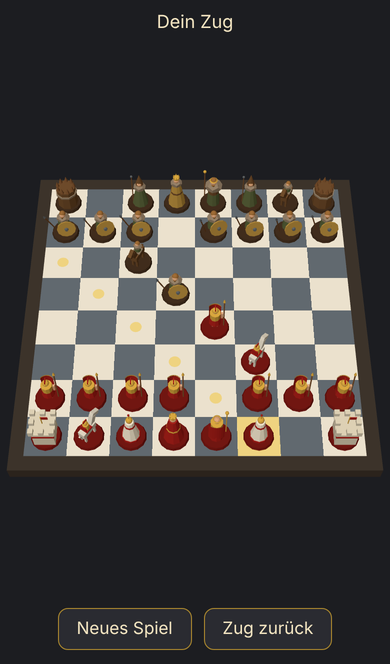
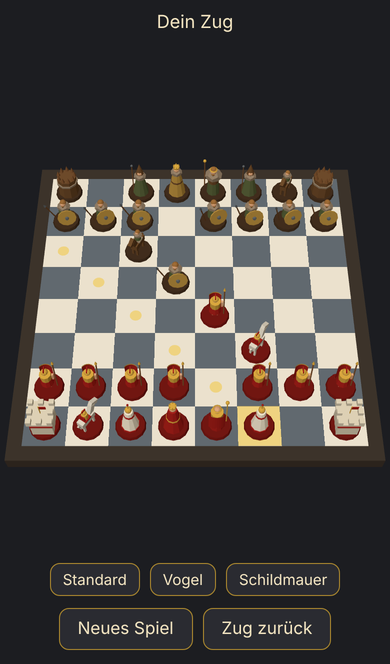
Add orbit camera with three views; tap selects, swipe rotates

diff --git a/src/board.ts b/src/board.ts
@@ -3,6 +3,7 @@
 // Gezeichnet wird nur, wenn sich etwas ändert (render), nicht in einer Dauerschleife.
 
 import * as THREE from 'three';
+import { OrbitControls } from 'three/addons/controls/OrbitControls.js';
 import { colorOf, fileOf, rankOf, type Color, type Piece, type Position } from './rules.ts';
 import { bishop } from './pieces/bishop.ts';
 import { king } from './pieces/king.ts';
@@ -22,9 +23,31 @@ const boardTop = makeBoardTop();
 const pieces = new THREE.Group(); // Figuren der aktuellen Stellung
 const marks = new THREE.Group(); // Auswahl und legale Ziele
 
+// Kamera drehen und zoomen. Ein Finger dreht, zwei Finger zoomen (so ist OrbitControls voreingestellt).
+// Verschieben ist aus, darum bleibt das Ziel die Brettmitte.
+const controls = new OrbitControls(camera, renderer.domElement);
+controls.enablePan = false;
+controls.maxPolarAngle = 1.35; // nicht tiefer als gut 10° über dem Brett
+controls.addEventListener('change', render);
+
+// Abstand, bei dem das ganze Brett ins Bild passt. Hängt vom Bildschirm ab, siehe resize.
+let fit = 1;
+
+// Die drei Ansichten. polar: Winkel von senkrecht oben; azimuth: Drehung ums Brett, 0 = hinter Rom;
+// distance: Abstand als Vielfaches von `fit`.
+const VIEWS = {
+  standard: { polar: 0.56, azimuth: 0, distance: 1 }, // schräg hinter Rom
+  bird: { polar: 0.001, azimuth: 0, distance: 1 }, // von oben
+  shieldWall: { polar: 1.2, azimuth: 2.0, distance: 1.1 }, // tief und seitlich, Schilde schräg von vorne
+};
+export type View = keyof typeof VIEWS;
+
 export function init(container: HTMLElement) {
   renderer.setPixelRatio(Math.min(window.devicePixelRatio, 2)); // 3x kostet auf dem iPhone viel, bringt wenig
   container.append(renderer.domElement);
+  const start = VIEWS.standard;
+  camera.position.setFromSphericalCoords(fit, start.polar, start.azimuth); // resize skaliert auf den richtigen Abstand
+  controls.update();
 
   scene.background = new THREE.Color('#1c1d21');
   scene.add(new THREE.HemisphereLight('#fff6e8', '#4a4038', 1.6));
@@ -67,6 +90,40 @@ export function select(from: number | null, targets: number[]) {
   render();
 }
 
+// Ruft `handler` mit dem angetippten Feld auf. Entschieden wird beim Loslassen:
+// Hat sich der Finger kaum bewegt, war es ein Tipp, sonst hat er die Kamera gedreht.
+// Ein zweiter Finger (Zoomen) macht aus der Berührung nie einen Tipp.
+export function onTap(handler: (sq: number | null) => void) {
+  let pressedAt: { x: number; y: number } | null = null;
+  renderer.domElement.addEventListener('pointerdown', (e) => {
+    pressedAt = e.isPrimary ? { x: e.clientX, y: e.clientY } : null;
+  });
+  renderer.domElement.addEventListener('pointerup', (e) => {
+    if (pressedAt && Math.hypot(e.clientX - pressedAt.x, e.clientY - pressedAt.y) < 10) {
+      handler(squareAt(e.clientX, e.clientY));
+    }
+    pressedAt = null;
+  });
+}
+
+// Fährt die Kamera sanft in eine der drei Ansichten. Während der Fahrt ist Drehen aus.
+export async function showView(name: View) {
+  if (!controls.enabled) return; // es läuft schon eine Fahrt
+  const from = new THREE.Spherical().setFromVector3(camera.position);
+  const to = VIEWS[name];
+  const turn = Math.atan2(Math.sin(to.azimuth - from.theta), Math.cos(to.azimuth - from.theta)); // kürzerer Weg
+  controls.enabled = false;
+  await tween(0.8, (t) => {
+    const e = smooth(t);
+    const distance = THREE.MathUtils.lerp(from.radius, to.distance * fit, e);
+    const polar = THREE.MathUtils.lerp(from.phi, to.polar, e);
+    camera.position.setFromSphericalCoords(distance, polar, from.theta + turn * e);
+    camera.lookAt(controls.target);
+  });
+  controls.enabled = true;
+  controls.update();
+}
+
 // Welches Feld liegt unter dem Finger oder Mauszeiger? null, wenn keins.
 export function squareAt(clientX: number, clientY: number): number | null {
   const rect = renderer.domElement.getBoundingClientRect();
@@ -90,18 +147,44 @@ export function render() {
   renderer.render(scene, camera);
 }
 
-// Feste, leicht schräge Sicht von der Seite Roms. Der Abstand passt sich dem Bildschirm an,
-// damit das Brett im Hochformat in die Breite und im Querformat in die Höhe passt.
+// Ruft step(t) bei jedem Bild auf und zeichnet; t läuft in `seconds` Sekunden von 0 bis 1.
+// Für Figuren (animate.ts) und Kamerafahrten.
+export function tween(seconds: number, step: (t: number) => void): Promise<void> {
+  return new Promise((resolve) => {
+    let start: number | undefined;
+    function frame(now: number) {
+      start ??= now; // Zeit des ersten Bildes
+      const t = Math.min((now - start) / (seconds * 1000), 1);
+      step(t);
+      render();
+      if (t < 1) requestAnimationFrame(frame);
+      else resolve();
+    }
+    requestAnimationFrame(frame);
+  });
+}
+
+// Langsam anfahren, langsam abbremsen.
+export function smooth(t: number): number {
+  return t * t * (3 - 2 * t);
+}
+
+// Passt Bildgröße und Kamera an den Bildschirm an. `fit` ist der Abstand, bei dem das Brett
+// im Hochformat in die Breite und im Querformat in die Höhe passt. Blickrichtung und Zoom
+// bleiben erhalten, nur im Verhältnis zum neuen `fit`. Die Zoomgrenzen hängen ebenfalls an `fit`.
 function resize(container: HTMLElement) {
   const width = container.clientWidth;
   const height = container.clientHeight;
   renderer.setSize(width, height);
   camera.aspect = width / height;
-  const halfHeight = Math.tan(THREE.MathUtils.degToRad(camera.fov / 2));
-  const distance = Math.max(5.0 / (halfHeight * camera.aspect), 4.6 / halfHeight);
-  camera.position.set(0, 1.6, 1).normalize().multiplyScalar(distance);
-  camera.lookAt(0, 0, 0.3);
   camera.updateProjectionMatrix();
+  const halfHeight = Math.tan(THREE.MathUtils.degToRad(camera.fov / 2));
+  const previousFit = fit;
+  fit = Math.max(5.0 / (halfHeight * camera.aspect), 4.6 / halfHeight);
+  controls.minDistance = 0.5 * fit;
+  controls.maxDistance = 1.3 * fit;
+  camera.position.multiplyScalar(fit / previousFit); // Ziel ist der Ursprung, also skaliert das den Abstand
+  controls.update();
   render();
 }
 

diff --git a/src/animate.ts b/src/animate.ts
@@ -32,8 +32,8 @@ export async function animateMove(pos: Position, move: Move) {
 
 function slide(figure: THREE.Object3D, to: THREE.Vector3, hop = 0): Promise<void> {
   const from = figure.position.clone();
-  return tween(0.25 + 0.08 * from.distanceTo(to), (t) => {
-    const e = smooth(t);
+  return board.tween(0.25 + 0.08 * from.distanceTo(to), (t) => {
+    const e = board.smooth(t);
     figure.position.lerpVectors(from, to, e);
     figure.position.y = hop * Math.sin(Math.PI * e);
   });
@@ -44,7 +44,7 @@ function lunge(figure: THREE.Object3D, direction: THREE.Vector3): Promise<void> 
   const start = figure.position.clone();
   const rest = figure.quaternion.clone();
   const axis = UP.clone().cross(direction); // kippt die Oberseite in Richtung `direction`
-  return tween(0.3, (t) => {
+  return board.tween(0.3, (t) => {
     const k = Math.sin(Math.PI * t); // 0 → 1 → 0
     figure.position.copy(start).addScaledVector(direction, 0.25 * k);
     figure.quaternion.setFromAxisAngle(axis, 0.35 * k).multiply(rest);
@@ -57,7 +57,7 @@ function topple(figure: THREE.Object3D, direction: THREE.Vector3): Promise<void>
   const rest = figure.quaternion.clone();
   const axis = UP.clone().cross(direction);
   const edge = 0.35; // Abstand von der Mitte bis zur Kippkante
-  return tween(0.4, (t) => {
+  return board.tween(0.4, (t) => {
     const angle = (Math.PI / 2) * t * t;
     figure.quaternion.setFromAxisAngle(axis, angle).multiply(rest);
     figure.position.copy(start).addScaledVector(direction, edge * (1 - Math.cos(angle)));
@@ -68,28 +68,7 @@ function topple(figure: THREE.Object3D, direction: THREE.Vector3): Promise<void>
 // Versinkt im Brett und verschwindet.
 function sink(figure: THREE.Object3D): Promise<void> {
   const startY = figure.position.y;
-  return tween(0.35, (t) => {
+  return board.tween(0.35, (t) => {
     figure.position.y = startY - 0.9 * t;
   });
-}
-
-// Ruft step(t) bei jedem Bild auf, t läuft in `seconds` Sekunden von 0 bis 1.
-function tween(seconds: number, step: (t: number) => void): Promise<void> {
-  return new Promise((resolve) => {
-    let start: number | undefined;
-    function frame(now: number) {
-      start ??= now; // Zeit des ersten Bildes
-      const t = Math.min((now - start) / (seconds * 1000), 1);
-      step(t);
-      board.render();
-      if (t < 1) requestAnimationFrame(frame);
-      else resolve();
-    }
-    requestAnimationFrame(frame);
-  });
-}
-
-// Langsam anfahren, langsam abbremsen.
-function smooth(t: number): number {
-  return t * t * (3 - 2 * t);
 }

diff --git a/index.html b/index.html
@@ -27,13 +27,20 @@
       #board {
         flex: 1;
         min-height: 0;
-        touch-action: none; /* kein Scrollen oder Zoomen beim Tippen aufs Brett */
+        touch-action: none; /* kein Scrollen oder Zoomen der Seite beim Wischen übers Brett */
       }
       nav {
         display: flex;
-        gap: 12px;
+        gap: 10px;
         justify-content: center;
-        padding: 8px 16px calc(env(safe-area-inset-bottom) + 14px);
+        padding: 6px 16px;
+      }
+      #actions {
+        padding-bottom: calc(env(safe-area-inset-bottom) + 14px);
+      }
+      #views button {
+        font-size: 15px;
+        padding: 6px 12px;
       }
       button {
         font: inherit;
@@ -49,7 +56,12 @@
   <body>
     <p id="status"></p>
     <div id="board"></div>
-    <nav>
+    <nav id="views">
+      <button id="view-standard">Standard</button>
+      <button id="view-bird">Vogel</button>
+      <button id="view-shield-wall">Schildmauer</button>
+    </nav>
+    <nav id="actions">
       <button id="new-game">Neues Spiel</button>
       <button id="undo">Zug zurück</button>
     </nav>

diff --git a/src/main.ts b/src/main.ts
@@ -18,9 +18,12 @@ let selected: number | null = null; // Feld der gewählten Figur
 let busy = false; // ein Zug läuft gerade (Animation oder Computer)
 
 board.init(boardElement);
-boardElement.addEventListener('pointerdown', (e) => tap(board.squareAt(e.clientX, e.clientY)));
+board.onTap(tap);
 document.querySelector('#new-game')!.addEventListener('click', newGame);
 document.querySelector('#undo')!.addEventListener('click', undo);
+document.querySelector('#view-standard')!.addEventListener('click', () => board.showView('standard'));
+document.querySelector('#view-bird')!.addEventListener('click', () => board.showView('bird'));
+document.querySelector('#view-shield-wall')!.addEventListener('click', () => board.showView('shieldWall'));
 newGame();
 
 function current(): Position {

diff --git a/README.md b/README.md
@@ -16,7 +16,9 @@ npm run dev
 - Tippe eine römische Figur an. Felder, auf die sie darf, bekommen einen Punkt, Figuren, die sie schlagen kann, einen Ring.
 - Tippe ein markiertes Feld: Die Figur gleitet hin, ein Springer springt im Bogen.
 - Dann überlegen die Germanen kurz und ziehen. Beim Schlagen stößt der Angreifer zu, das Opfer kippt um und versinkt im Brett.
-- Oben steht der Stand: dein Zug, Schach, Schachmatt oder Patt. Unten: **Neues Spiel** und **Zug zurück** (nimmt deinen Zug samt Antwort zurück).
+- Mit einem Finger wischen dreht die Kamera ums Brett, zwei Finger zoomen (am Rechner: ziehen und Mausrad). Ein kurzer Tipp wählt weiterhin nur Figuren aus.
+- **Standard**, **Vogel** und **Schildmauer** fahren die Kamera sanft in drei feste Ansichten: schräg hinter Rom, von oben, tief von der Seite mit den Schilden schräg von vorne.
+- Oben steht der Stand: dein Zug, Schach, Schachmatt oder Patt. Ganz unten: **Neues Spiel** und **Zug zurück** (nimmt deinen Zug samt Antwort zurück).
 
 ```bash
 npm test
@@ -33,7 +35,7 @@ src/
 ├── rules.ts          Zentrum: Schachregeln. Stellung rein, legale Züge, neue Stellung, Schach/Matt/Patt raus
 ├── main.ts           Spielablauf: Tipp → Zug → Animation → Zug des Computers; Leiste und Status
 ├── ai.ts             Computergegner: Minimax mit Alpha-Beta, 3 Halbzüge, danach Schlagfolgen zu Ende gerechnet
-├── board.ts          three.js: Kamera, Licht, Brett, Figuren aufstellen, Markierungen, welches Feld getippt wurde
+├── board.ts          three.js: Kamera (drehen, zoomen, drei Ansichten), Licht, Brett, Figuren, Markierungen, Tipp oder Wischen
 ├── animate.ts        Gleiten, Springerbogen, Angriff, Umkippen, Versinken
 ├── pieces/
 │   ├── parts.ts      Farben, Grundformen, Sockel und die Abmachung, die jede Figur einhält
@@ -54,7 +56,7 @@ screenshot.png        das Bild oben
 Ein Zug läuft so durch die Dateien:
 
 ```text
-Tipp → board.squareAt → main.tap → rules.legalMoves
+Tipp → board.onTap → main.tap → rules.legalMoves
      → animate.animateMove → rules.makeMove → board.show
      → ai.bestMove → derselbe Weg für den Zug des Computers
 ```
@@ -100,11 +102,13 @@ Ausprobiert mit dem eigenen Bauern, als `.glb` exportiert: Er lädt so im Entwic
 - **Regeln selbst geschrieben** statt chess.js (DECISIONS.md): keine Abhängigkeit, und die Suche des Computers braucht schnelle Züge. Perft bestätigt die Regeln.
 - **Tests mit Node** (`node --test`) statt Vitest: Node 22 führt TypeScript direkt aus, eine Abhängigkeit weniger.
 - **Gezeichnet wird nur bei Änderungen**, nicht 60-mal pro Sekunde. Schach steht meistens still; das schont Akku und Wärme.
+- **Tippen oder Wischen** entscheidet sich beim Loslassen: weniger als 10 Pixel Bewegung ist ein Tipp, sonst hat die Kamera gedreht. Ein zweiter Finger macht nie einen Tipp daraus.
+- **Kamera ohne Nachlauf** (OrbitControls ohne Dämpfung): Sie bewegt sich nur, solange der Finger zieht. So braucht es keine Dauerschleife, gezeichnet wird weiter nur bei Änderungen.
 - **Der Computer rechnet im Hauptthread**, aber erst, wenn keine Animation läuft. Gemessen auf dem Server: Median 51 ms, langsamster Zug 0,5 s in einer Partie über 120 Halbzüge.
 
 ## Offene Fragen
 
-1. **Schildmauer: Maße oder Mauer?** Das Scutum ist jetzt halb so breit wie hoch (0,30 × 0,58 Feld). Bei 1 Feld Abstand bleibt zwischen zwei Schilden etwa 0,7 Feld Lücke, eine geschlossene Wand entsteht so nicht. So breit wie der Sockel (0,66) bliebe ein Drittel Feld Lücke, der Schild wäre dann aber fast so breit wie hoch. Dazu kommt: Die Kamera steht hinter Rom, man sieht die Schilde von hinten. Sollen die Römer zur Kamera schauen?
+1. **Schildmauer: Maße oder Mauer?** Das Scutum ist jetzt halb so breit wie hoch (0,30 × 0,58 Feld). Bei 1 Feld Abstand bleibt zwischen zwei Schilden etwa 0,7 Feld Lücke, eine geschlossene Wand entsteht so nicht. So breit wie der Sockel (0,66) bliebe ein Drittel Feld Lücke, der Schild wäre dann aber fast so breit wie hoch. Am besten zu sehen in der Ansicht **Schildmauer**.
 2. **Unterwegs spielen?** Ohne laufenden Rechner geht es nicht. Soll die Seite veröffentlicht werden, z. B. über GitHub Pages?
 3. **Zu zweit an einem Gerät** wieder einbauen, als Schalter in der Leiste?
 4. **Umwandlung mit Auswahl** (Dame, Turm, Läufer, Springer) oder bei Dame bleiben?
